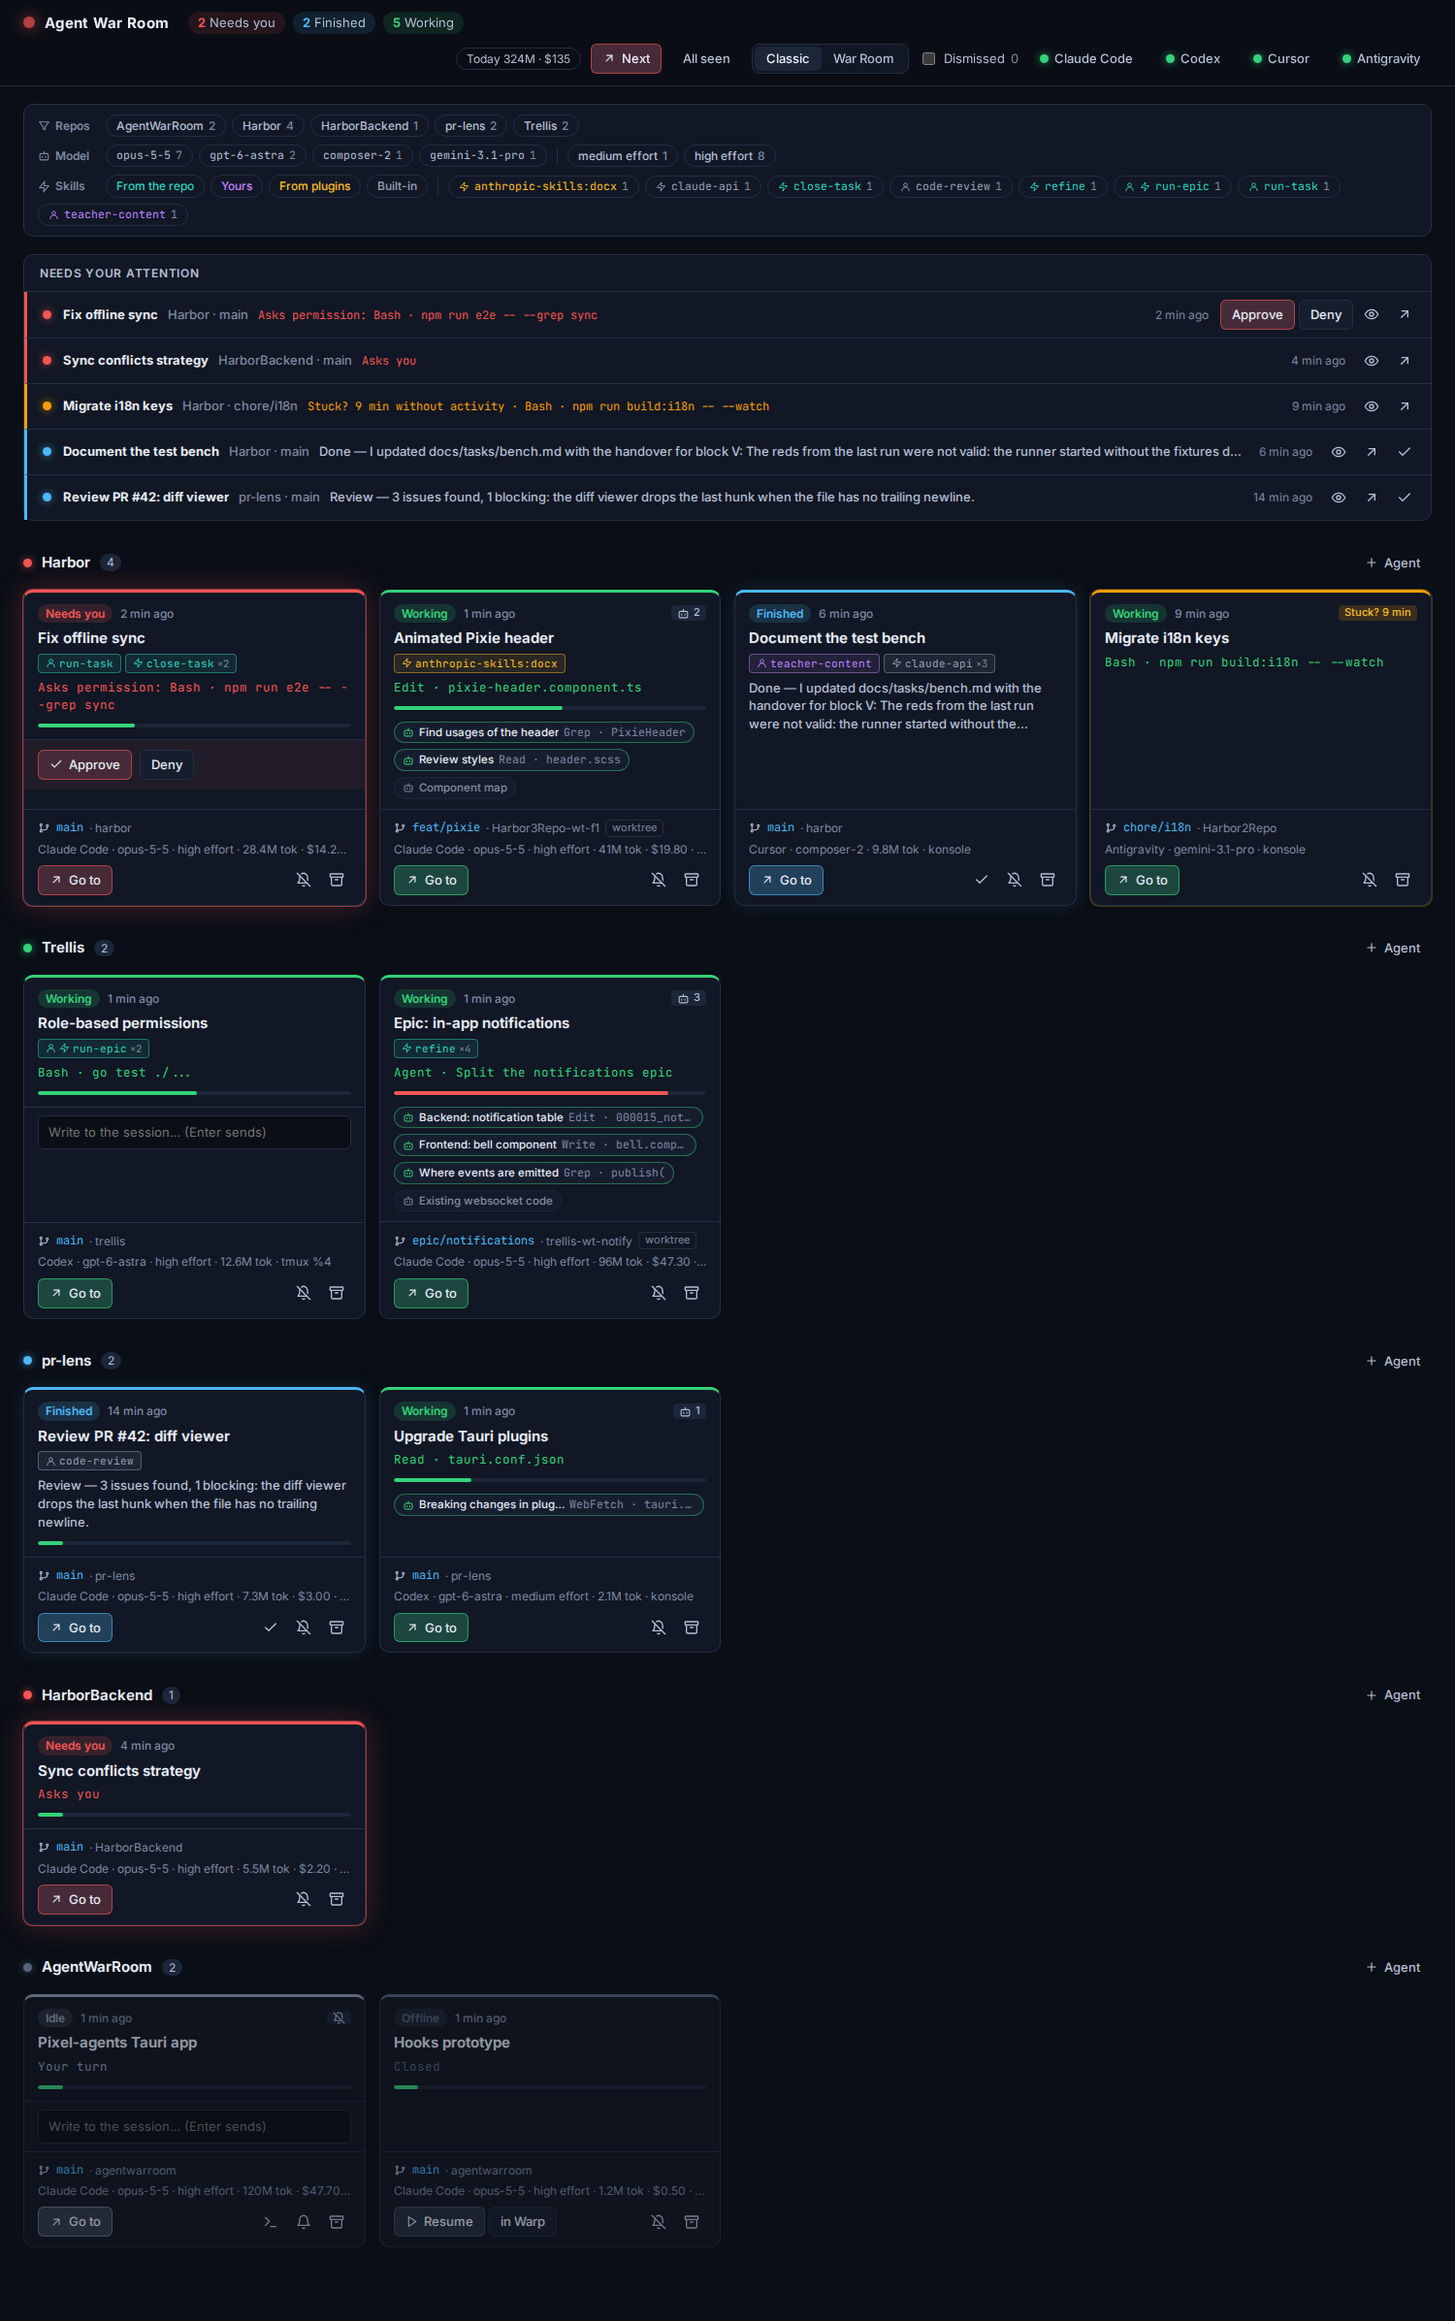
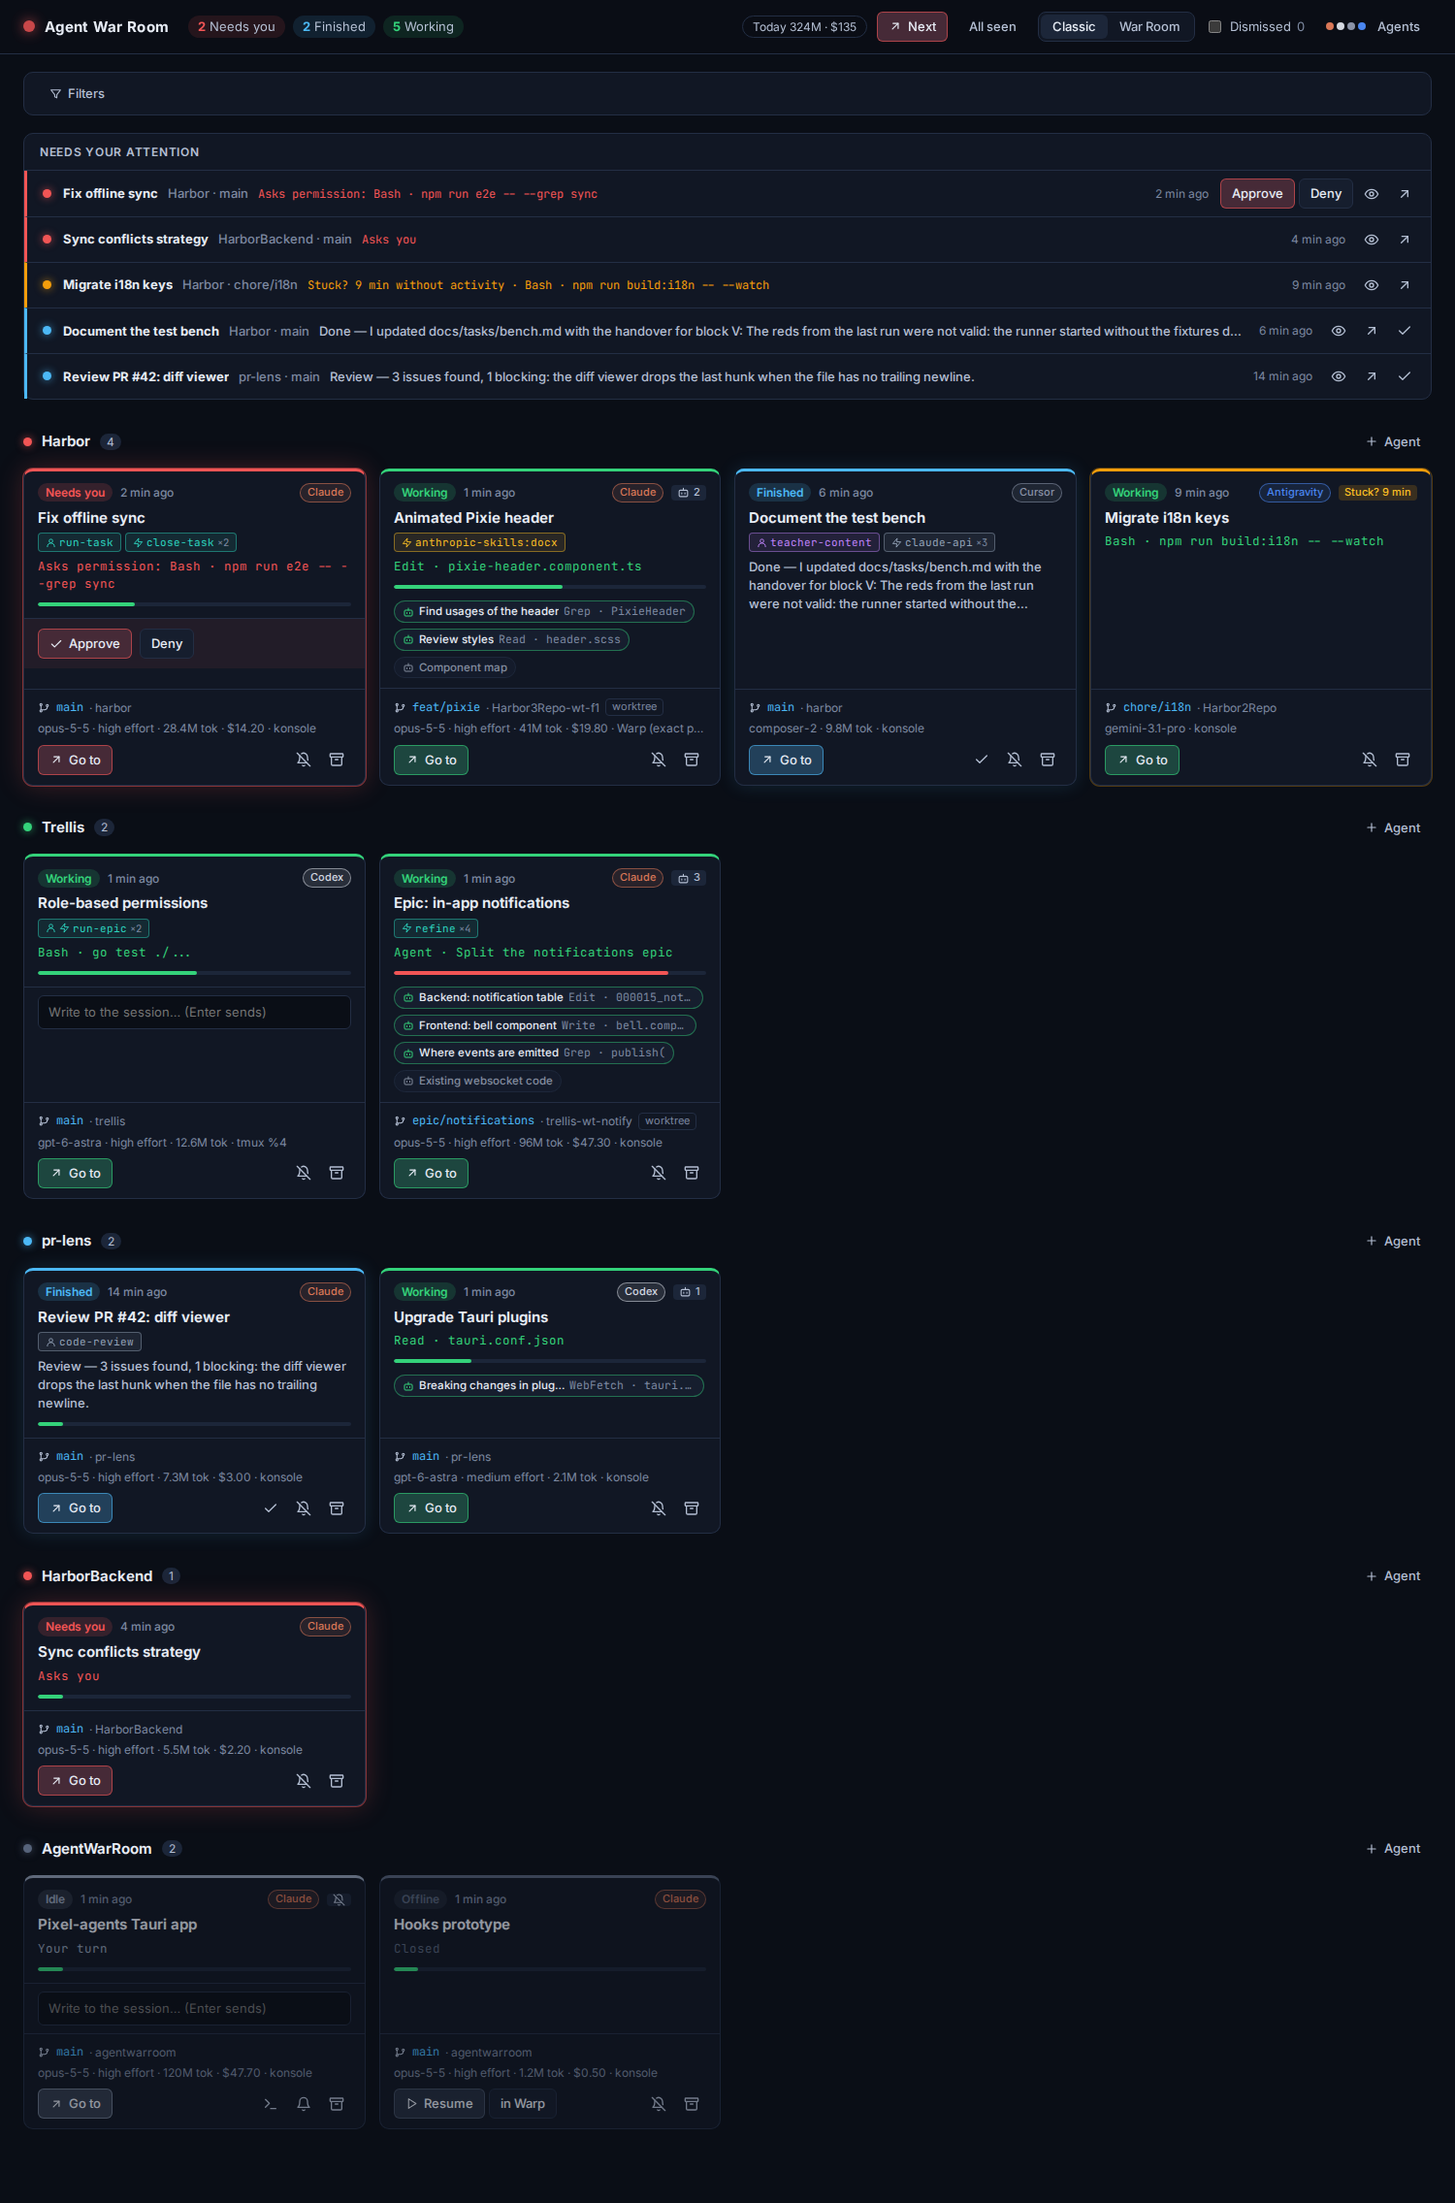
feat(ui): one Agents menu, folded filters and agent tags on cards
- The four per-agent header badges become one Agents button with a dot per agent and a menu to
  connect, reinstall or disconnect each, plus the login toggle: the header fits on two lines again.
- Filters fold to a single line with the number of active ones; the choice is remembered.
- Cards show which agent they are as a small tag in its colour (the pixel office's shirt), so the
  footer line keeps model, tokens and cost instead of being cut.
- Screenshots open the folded filters and capture the Agents menu.

diff --git a/src/ui/IntegrationBar.tsx b/src/ui/IntegrationBar.tsx
@@ -43,56 +43,76 @@ export function IntegrationBar({ integrations, busy, store }: Props) {
   );
 }
 
-/** Discreet header indicator per connected agent. The login toggle lives in the first one. */
-export function IntegrationBadges({ integrations, busy, store, autostart }: Props) {
-  const connected = integrations.filter(isConnected);
-  return (
-    <>
-      {connected.map((status, i) => (
-        <IntegrationBadge
-          key={status.provider}
-          status={status}
-          busy={busy}
-          store={store}
-          autostart={i === 0 ? autostart : null}
-        />
-      ))}
-    </>
-  );
+type Health = "connected" | "incomplete" | "off" | "missing";
+
+function health(status: IntegrationStatus): Health {
+  if (isConnected(status)) return "connected";
+  if (status.hooked_events.length > 0) return "incomplete";
+  return status.agent_found ? "off" : "missing";
 }
 
-type BadgeProps = { status: IntegrationStatus; busy: boolean; store: WarRoomStore; autostart?: boolean | null };
-
-function IntegrationBadge({ status, busy, store, autostart }: BadgeProps) {
+/** One header button for every agent: a dot each, and a menu to connect or disconnect them. */
+export function AgentsMenu({ integrations, busy, store, autostart }: Props) {
   const [open, setOpen] = useState(false);
-  const agent = providerName(status.provider);
+  if (integrations.length === 0) return null;
+  const shown = integrations.filter((i) => i.agent_found || health(i) !== "missing");
   return (
-    <div className="integration-badge">
-      <button className="ghost" onClick={() => setOpen(!open)} aria-expanded={open} title={copy.integration.title(agent)}>
-        <span className="dot" data-attention="working" /> {agent}
+    <div className="agents-menu">
+      <button className="ghost" onClick={() => setOpen(!open)} aria-expanded={open} title={copy.topbar.agentsTitle}>
+        <span className="agent-dots">
+          {shown.map((i) => (
+            <span key={i.provider} className="agent-dot" data-provider={i.provider} data-health={health(i)} />
+          ))}
+        </span>
+        {copy.topbar.agents}
       </button>
       {open && (
-        <div className="popover" role="dialog" aria-label={copy.integration.title(agent)}>
-          <p>
-            {copy.integration.hooksIn} <code>{status.settings_path}</code>
-          </p>
-          <p>
-            {copy.integration.bridge} <code>{status.bridge_path}</code>
-          </p>
+        <div className="popover agents-popover" role="dialog" aria-label={copy.topbar.agentsTitle}>
+          {integrations.map((status) => {
+            const state = health(status);
+            return (
+              <div className="agents-row" key={status.provider} data-health={state}>
+                <span className="agent-dot" data-provider={status.provider} data-health={state} />
+                <div className="agents-info">
+                  <strong>{providerName(status.provider)}</strong>
+                  <span className="muted small">
+                    {copy.integration.states[state]}
+                    {state !== "missing" && (
+                      <>
+                        {" · "}
+                        <code>{status.settings_path}</code>
+                      </>
+                    )}
+                  </span>
+                </div>
+                {state === "connected" ? (
+                  <span className="row">
+                    <button disabled={busy} onClick={() => store.install(status.provider)}>
+                      {copy.integration.reinstall}
+                    </button>
+                    <button disabled={busy} onClick={() => store.uninstall(status.provider)}>
+                      {copy.integration.disconnect}
+                    </button>
+                  </span>
+                ) : state !== "missing" ? (
+                  <button className="primary" disabled={busy} onClick={() => store.install(status.provider)}>
+                    {copy.integration.connect(providerName(status.provider))}
+                  </button>
+                ) : null}
+              </div>
+            );
+          })}
+          {integrations.some(isConnected) && (
+            <p className="muted small">
+              {copy.integration.bridge} <code>{integrations[0].bridge_path}</code>
+            </p>
+          )}
           {autostart != null && (
             <label className="toggle">
               <input type="checkbox" checked={autostart} disabled={busy} onChange={(e) => store.setAutostart(e.target.checked)} />
               {copy.integration.autostart}
             </label>
           )}
-          <div className="row">
-            <button disabled={busy} onClick={() => store.install(status.provider)}>
-              {copy.integration.reinstall}
-            </button>
-            <button disabled={busy} onClick={() => store.uninstall(status.provider)}>
-              {copy.integration.disconnect}
-            </button>
-          </div>
         </div>
       )}
     </div>

diff --git a/src/ui/FilterBar.tsx b/src/ui/FilterBar.tsx
@@ -1,3 +1,4 @@
+import { useState } from "react";
 import type { WarRoomStore } from "../application/warRoomStore";
 import {
   effortName,
@@ -14,13 +15,57 @@ import { FilterIcon, RobotIcon, UserIcon, XIcon, ZapIcon } from "./icons";
 type Props = { view: WarRoomView; shown: WarRoomView; filter: Filter; store: WarRoomStore };
 
 const count = (v: WarRoomView) => v.rooms.reduce((n, r) => n + r.sessions.length, 0);
+const activeCount = (f: Filter) => f.repos.length + f.skills.length + f.sources.length + f.models.length + f.efforts.length;
+
+const OPEN_KEY = "awr.filters.open";
+function remembered(): boolean {
+  try {
+    return localStorage.getItem(OPEN_KEY) === "1";
+  } catch {
+    return false;
+  }
+}
 
 /** Filter the room by repo, model/effort, skill and skill source. */
 export function FilterBar({ view, shown, filter, store }: Props) {
   const { repos, skills, models, efforts } = filterOptions(view);
   const active = isFiltering(filter);
+  const [open, setOpenState] = useState(remembered);
+  const setOpen = (value: boolean) => {
+    setOpenState(value);
+    try {
+      localStorage.setItem(OPEN_KEY, value ? "1" : "0");
+    } catch {
+      // Private window or blocked storage: it just won't be remembered.
+    }
+  };
   const modelsWorthIt = models.length > 1 || efforts.length > 1;
   if (repos.length < 2 && skills.length === 0 && !modelsWorthIt && !active) return null;
+
+  const summary = active && (
+    <>
+      <span className="muted">{copy.filters.sessionsShown(count(shown), count(view))}</span>
+      <button className="ghost" onClick={() => store.clearFilter()}>
+        <XIcon size={13} /> {copy.filters.clear}
+      </button>
+    </>
+  );
+
+  // Folded: one line, so the room starts right away.
+  if (!open) {
+    return (
+      <section className="filters folded" data-active={active} aria-label={copy.filters.label}>
+        <div className="filter-row">
+          <button className="ghost filter-toggle" onClick={() => setOpen(true)} aria-expanded={false}>
+            <FilterIcon size={13} /> {copy.filters.show}
+            {active && <span className="filter-count">{copy.filters.active(activeCount(filter))}</span>}
+          </button>
+          <span className="spacer" />
+          {summary}
+        </div>
+      </section>
+    );
+  }
 
   return (
     <section className="filters" data-active={active} aria-label={copy.filters.label}>
@@ -39,16 +84,10 @@ export function FilterBar({ view, shown, filter, store }: Props) {
           </button>
         ))}
         <span className="spacer" />
-        {active && (
-          <>
-            <span className="muted">
-              {copy.filters.sessionsShown(count(shown), count(view))}
-            </span>
-            <button className="ghost" onClick={() => store.clearFilter()}>
-              <XIcon size={13} /> {copy.filters.clear}
-            </button>
-          </>
-        )}
+        {summary}
+        <button className="ghost" onClick={() => setOpen(false)} aria-expanded={true} title={copy.filters.collapse}>
+          <XIcon size={13} />
+        </button>
       </div>
 
       {(modelsWorthIt || filter.models.length > 0 || filter.efforts.length > 0) && (

diff --git a/src/domain/copy.ts b/src/domain/copy.ts
@@ -33,6 +33,14 @@ export const copy = {
     antigravity: t("provider.antigravity"),
   } as Record<string, string>,
 
+  /** Short agent names, for tags. */
+  providerShort: {
+    claude: t("provider_short.claude"),
+    codex: t("provider_short.codex"),
+    cursor: t("provider_short.cursor"),
+    antigravity: t("provider_short.antigravity"),
+  } as Record<string, string>,
+
   skillSource: {
     project: t("skill_source.project"),
     personal: t("skill_source.personal"),
@@ -85,6 +93,8 @@ export const copy = {
     classic: t("topbar.classic"),
     warRoom: t("topbar.war_room"),
     archived: t("topbar.archived"),
+    agents: t("topbar.agents"),
+    agentsTitle: t("topbar.agents_title"),
   },
 
   app: {
@@ -163,6 +173,9 @@ export const copy = {
     skills: t("filters.skills"),
     sessionsShown: (shown: number, total: number) => t("filters.sessions_shown", { shown, total }),
     clear: t("filters.clear"),
+    show: t("filters.show"),
+    collapse: t("filters.collapse"),
+    active: (n: number) => tn("filters.active", n),
     effortTitle: (value: string) => t("filters.effort_title", { value }),
     skillTitle: (source: string, byUser: boolean, byAgent: boolean) =>
       t("filters.skill_title", { source, who: who(byUser, byAgent) }),
@@ -255,14 +268,18 @@ export const copy = {
       end: t("integration.install_end"),
     },
     connect: (agent: string) => t("integration.connect", { agent }),
-    title: (agent: string) => t("integration.title", { agent }),
+    states: {
+      connected: t("integration.state_connected"),
+      incomplete: t("integration.state_incomplete"),
+      off: t("integration.state_off"),
+      missing: t("integration.state_missing"),
+    },
     /** Per agent, what to know before connecting it. */
     notes: {
       codex: t("integration.codex_trust"),
       cursor: t("integration.cursor_note"),
       antigravity: t("integration.antigravity_note"),
     } as Record<string, string>,
-    hooksIn: t("integration.hooks_in"),
     bridge: t("integration.bridge"),
     autostart: t("integration.autostart"),
     reinstall: t("integration.reinstall"),

diff --git a/src/ui/styles.css b/src/ui/styles.css
@@ -1521,3 +1521,92 @@ pre.diff [data-line="file"] {
   text-align: left;
   white-space: nowrap;
 }
+
+/* ---------- Agents: one colour per kind (the pixel office's shirts) ---------- */
+[data-provider="claude"] { --agent: #d97757; }
+[data-provider="codex"] { --agent: #d4d8e0; }
+[data-provider="cursor"] { --agent: #8b93a7; }
+[data-provider="antigravity"] { --agent: #4a86f0; }
+
+.agent-tag {
+  font-size: 11px;
+  padding: 1px 7px;
+  border-radius: 999px;
+  color: var(--agent);
+  border: 1px solid color-mix(in srgb, var(--agent) 55%, transparent);
+  background: color-mix(in srgb, var(--agent) 12%, transparent);
+  white-space: nowrap;
+}
+
+/* Header: every agent behind one button. */
+.agents-menu {
+  position: relative;
+}
+
+.agent-dots {
+  display: inline-flex;
+  gap: 3px;
+  margin-right: 6px;
+}
+
+.agent-dot {
+  width: 8px;
+  height: 8px;
+  border-radius: 50%;
+  background: var(--agent, #94a3b8);
+  display: inline-block;
+  flex: none;
+}
+
+.agent-dot[data-health="incomplete"] {
+  background: #f59e0b;
+}
+
+.agent-dot[data-health="off"] {
+  background: transparent;
+  box-shadow: inset 0 0 0 1.5px var(--agent, #94a3b8);
+}
+
+.agent-dot[data-health="missing"] {
+  background: transparent;
+  box-shadow: inset 0 0 0 1px #475569;
+}
+
+.agents-popover {
+  width: 420px;
+  display: grid;
+  gap: 10px;
+}
+
+.agents-row {
+  display: grid;
+  grid-template-columns: auto 1fr auto;
+  align-items: center;
+  gap: 10px;
+}
+
+.agents-row[data-health="missing"] {
+  opacity: 0.55;
+}
+
+.agents-info {
+  display: grid;
+  min-width: 0;
+}
+
+.agents-info code {
+  overflow-wrap: anywhere;
+}
+
+/* Folded filters: a single line. */
+.filters.folded {
+  padding-block: 6px;
+}
+
+.filter-count {
+  margin-left: 6px;
+  padding: 0 6px;
+  border-radius: 999px;
+  background: color-mix(in srgb, var(--accent, #60a5fa) 25%, transparent);
+  font-size: 11px;
+}

diff --git a/src/ui/App.tsx b/src/ui/App.tsx
@@ -7,7 +7,7 @@ import { AttentionQueue } from "./AttentionQueue";
 import { DetailPanel } from "./DetailPanel";
 import { FilterBar } from "./FilterBar";
 import { GoIcon } from "./icons";
-import { IntegrationBadges, IntegrationBar } from "./IntegrationBar";
+import { AgentsMenu, IntegrationBar } from "./IntegrationBar";
 import { WarRoomScene } from "./pixel/WarRoomScene";
 import { RoomPanel } from "./RoomPanel";
 import { useNow, usePreference, useWarRoom } from "./useStore";
@@ -76,7 +76,7 @@ export function App({ store }: { store: WarRoomStore }) {
               {copy.topbar.archived} <span className="muted">{archivedCount(view)}</span>
             </label>
           )}
-          <IntegrationBadges integrations={state.integrations} busy={state.busy} store={store} autostart={state.autostart} />
+          <AgentsMenu integrations={state.integrations} busy={state.busy} store={store} autostart={state.autostart} />
         </div>
       </header>
 

diff --git a/src/ui/SessionScreen.tsx b/src/ui/SessionScreen.tsx
@@ -53,6 +53,11 @@ export function SessionScreen({ session: s, store, now, showProvider = false }: 
           </span>
           <span className="muted">{since(s.status_since, now)}</span>
           <span className="spacer" />
+          {showProvider && (
+            <span className="agent-tag" data-provider={s.provider} title={providerName(s.provider)}>
+              {copy.providerShort[s.provider] ?? s.provider}
+            </span>
+          )}
           {stalled != null && (
             <span className="badge stalled" title={copy.stalled.title}>
               {copy.stalled.label(stalled)}
@@ -98,7 +103,6 @@ export function SessionScreen({ session: s, store, now, showProvider = false }: 
         </div>
         <div className="card-meta">
           {[
-            showProvider && providerName(s.provider),
             modelAndEffort(s.model, s.effort),
             s.usage.total_tokens > 0 && usageLabel(s.usage),
             whereItLives(s),
